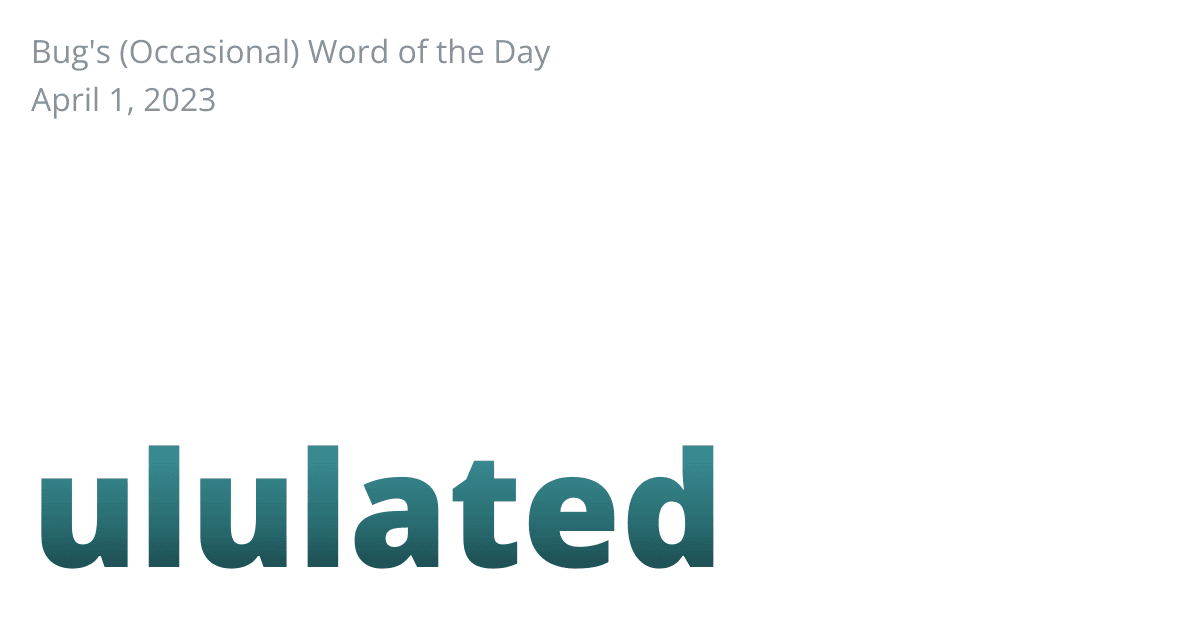
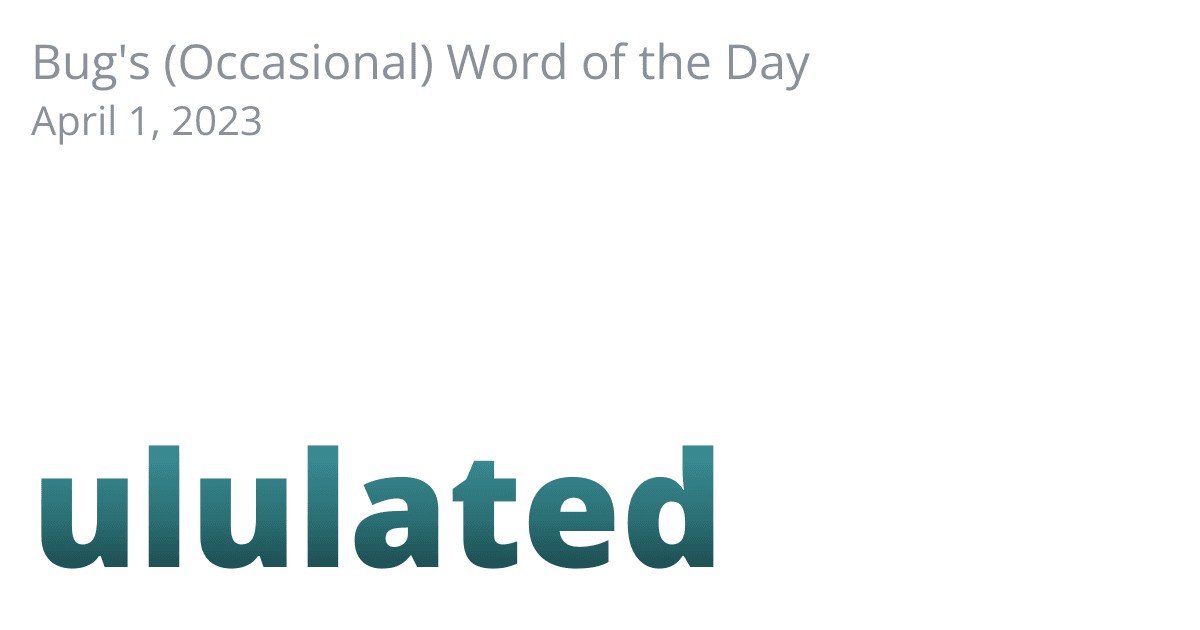
Bump title size up im images

Changed region(s): [[0.0308, 0.0603, 0.6783, 0.2413]]

diff --git a/tools/utils.js b/tools/utils.js
@@ -11,8 +11,8 @@ const CANVAS_WIDTH = 1200;
 const CANVAS_HEIGHT = 630;
 const PADDING = Math.floor(Math.min(CANVAS_WIDTH, CANVAS_HEIGHT) * 0.05);  // 5% of shortest dimension
 const FONT_SIZE = 160;
-const TITLE_SIZE = 32;
-const DATE_SIZE = 32;
+const TITLE_SIZE = 48;
+const DATE_SIZE = 40;
 const DESCENDER_OFFSET = Math.floor(FONT_SIZE * 0.2);  // Restore descender offset (20% of font size)
 const MAX_WIDTH = CANVAS_WIDTH - (PADDING * 2);
 
